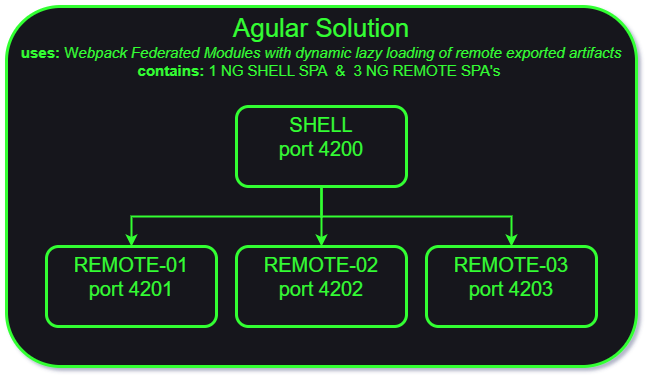
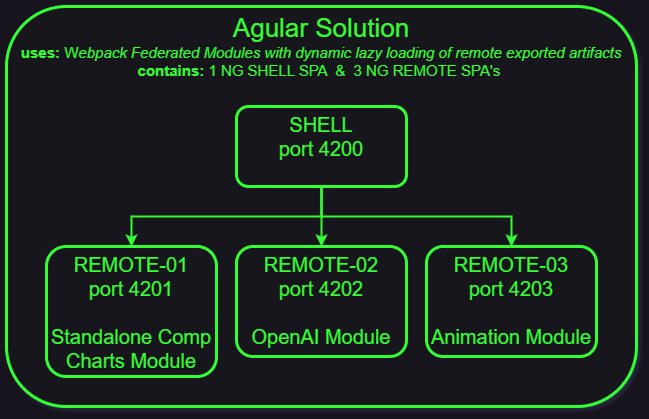
wip open AI Image is done

Changed region(s): [[0.0616, 0.2322, 0.9245, 0.8997], [0.0, 0.0, 1.0, 1.0]]

diff --git a/projects/remote-02/src/app/modules/open-ai/components/image-ai/image-ai.component.ts b/projects/remote-02/src/app/modules/open-ai/components/image-ai/image-ai.component.ts
@@ -1,7 +1,10 @@
-import { Component, OnInit } from '@angular/core';
+import { Component, OnInit, AfterViewInit } from '@angular/core';
 import { FormGroup, FormControl, Validators } from '@angular/forms';
 import { Observable, of } from 'rxjs';
 import { map, startWith } from 'rxjs/operators';
+import { OpenAiDataService } from '../../services/open-ai.service';
+import { MatSnackBar } from '@angular/material/snack-bar';
+
 
 @Component({
   selector: 'app-image-ai',
@@ -9,27 +12,69 @@ import { map, startWith } from 'rxjs/operators';
   styleUrls: ['./image-ai.component.scss']
 })
 export class ImageAiComponent {
-  myForm: FormGroup;
-  output$: Observable<string>; 
+  myForm!: FormGroup
+  output$!: Observable<string>
+  inProgress: boolean = false;
+  theImageResult: string = ''
+  defValue: string ="create an image that shows two angels flying over a planet with a purple sky and white clouds"
+  
+  constructor(private openAiDS: OpenAiDataService,
+              private snackBar: MatSnackBar) {
+    this.initFormGroup(); // Initialize the output observable
+  }
 
-  constructor() {
+  private initFormGroup() {
     this.myForm = new FormGroup({
-      inputField: new FormControl('', Validators.required) // Initialize form control
+      inputField: new FormControl('', Validators.required),
+      inputKey: new FormControl('', Validators.required) // Initialize form control
     });
-    this.output$ = of(''); // Initialize the output observable
+    this.output$ = of('');
   }
 
   ngOnInit(): void {
-    // Use the form control valueChanges observable to react to input changes
-    this.output$ = this.myForm.get('inputField')!.valueChanges.pipe(
-      startWith(''), // Start with an initial value
-      map(input => `You typed: ${input}`) // Transform the input to the desired output
+    this.output$ = this.myForm.controls['inputField'].valueChanges.pipe(
+      startWith(''),
+      map(input => {
+        return this.countWords(input);
+      })
     );
   }
+  ngAfterViewInit(){
+    setTimeout(() => {
+      this.myForm.controls['inputField'].setValue(this.defValue)
+      this.myForm.controls['inputField'].enable()
+    });
+  }
+  private countWords(input: any) {
+    const words = input.trim().split(/\s+/);
+    // Count the words, filtering out any empty strings that may result from multiple consecutive spaces.
+    const wordCount = words.filter((word: string | any[]) => word.length > 0).length;
+    return `${wordCount}`;
+  }
 
+  displayToast(message: string, action: string = 'Close', duration: number = 3000) {
+    this.snackBar.open(message, action, {
+      duration: duration,
+    });
+  }
   onSubmit(): void {
     if (this.myForm.valid) {
-      console.log(this.myForm.value); // Here you can handle the form submission
+      const apiKey = this.myForm.controls['inputKey'].value; // Ideally, fetch this securely from your environment or server
+      const description = this.myForm.controls['inputField'].value;
+      this.inProgress=true;
+      this.openAiDS.generateImage(description, apiKey).subscribe({
+        next: (response: any) => {
+          this.displayToast("Your Image Is Below :)",'Close',3000);
+          this.theImageResult = response.data[0].url
+          this.inProgress=false;
+        },
+        error: (error) => {
+          this.inProgress = false;
+          this.displayToast(error.message,'Close',5000);
+        }
+      });
+    } else {
+      this.displayToast('You need to enter some TEXT & a valid API Key','Close',5000);
     }
   }
 }

diff --git a/projects/remote-02/src/app/modules/open-ai/services/open-ai.service.ts b/projects/remote-02/src/app/modules/open-ai/services/open-ai.service.ts
@@ -1,28 +1,29 @@
-import { Injectable, OnInit } from '@angular/core';
-import { HttpClient, HttpHeaders } from '@angular/common/http';
+import { Injectable } from '@angular/core';
+import { HttpClient, HttpHeaders } from '@angular/common/http'
 import { Observable } from 'rxjs';
+import { environment } from '../../../../environments/environment'
+import {OpenAI } from 'openai'
 
 @Injectable({
   providedIn: 'root' // This makes the service available throughout the app
 })
-export class OpenAiDataService implements OnInit {
+export class OpenAiDataService  {
+ 
 
   constructor(private http: HttpClient) { }
-  ngOnInit() {
-    const httpOptions = {
-      headers: new HttpHeaders({
-        'Content-Type': 'application/json',
-        'Authorization': 'your-auth-token'
-      })
-    }
-  }
+  
+  generateImage(description: string, apiKey: string): Observable<any> {
+    const headers = new HttpHeaders({
+      'Content-Type': 'application/json',
+      'Authorization': `Bearer ${apiKey}` // Send API key securely
+    });
 
-  fetchData(): Observable<any> {
-    // Example URL - replace with your actual endpoint
-    const url = 'https://api.example.com/data';
-    return this.http.get(url);
-  }
-  postRequest(url: string, body: any, httpOptions?: { headers: HttpHeaders }): Observable<any> {
-    return this.http.post(url, body, httpOptions);
+    // The payload you'll send to your backend, which then forwards the request to OpenAI
+    const body = {
+      prompt: description,
+      n: 1,
+      size: "1024x1024"
+    };
+    return this.http.post<any>(`${environment.openAiUrl.ImageGeneration}`, body, { headers: headers });
   }
 }

diff --git a/projects/remote-02/src/app/modules/open-ai/components/image-ai/image-ai.component.html b/projects/remote-02/src/app/modules/open-ai/components/image-ai/image-ai.component.html
@@ -3,8 +3,35 @@
     let's see what Open AI returns</h3>
   <div class="input-form">
     <form [formGroup]="myForm" (ngSubmit)="onSubmit()">
-    <textarea class="textarea" formControlName="inputField" placeholder="Type something..."></textarea>
-      <p>Output: {{ output$ | async }}</p> <!-- Display the transformed input -->
+      <div class="input-field">
+        <div class="input-field-label">
+          <mat-label for="inputField">Enter your 'creative image' instruction</mat-label> 
+        </div>
+        <div class="input-field-text-area">
+          <textarea class="text-area" formControlName="inputField" placeholder="Type something kewl...">Groovy</textarea>
+          <div class="word-count">Word Count: {{ output$ | async }}</div>
+        </div>
+      </div>
+      <div class="input-key">
+        <div class="input-key-label">
+          <mat-label for="input-key">Open AI API-KEY</mat-label> 
+        </div> <div class="input-key-text">
+          <input class="api-key" formControlName="inputKey" type="password">  
+        </div>
+      </div>
+      <div class="submit">
+        <ng-container *ngIf="inProgress === false">
+          <button mat-raised-button="submit">Submit To Open AI</button>
+        </ng-container>
+        <ng-container *ngIf="inProgress === true">
+          <div class="standby">Standby, Your Image Is Being Created on OpenAI...</div>
+        </ng-container>
+      </div>
     </form>
   </div>  
+  <ng-container *ngIf="inProgress === false">
+    <div class="theImage">
+      <img [src] = "theImageResult" >
+    </div>
+  </ng-container>
 </div>

diff --git a/projects/remote-02/src/app/modules/open-ai/components/image-ai/image-ai.component.scss b/projects/remote-02/src/app/modules/open-ai/components/image-ai/image-ai.component.scss
@@ -3,9 +3,41 @@
         display: flex; // Use Flexbox
         justify-content: center; // Center children horizontally
         align-items: center; // Center children vertically
-        .textarea{
-            width: 500px;
-            height: 200px;
+        padding-top: 20px;
+        .input-field {
+            .input-field-label{
+            }
+            .input-field-text-area {
+                .text-area{
+                    width: 400px;
+                    height: 200px;
+                }
+                .word-count{
+                    font-size: smaller;
+                }
+            }
         }
+        .input-key {
+            padding-top: 20px;
+            .input-key-label{
+            }
+            .input-key-text {
+                .api-key{
+                    width: 400px;
+                }
+            }
+        }
+        .submit{
+            padding-top: 10px;
+        }
+        .standby{
+            color:greenyellow;
+        }
+    }
+    .theImage{
+        display: flex; // Use Flexbox
+        justify-content: center; // Center children horizontally
+        align-items: center; // Center children vertically
+        padding-top: 30px;
     }
 }

diff --git a/projects/remote-02/src/app/modules/open-ai/open-ai.module.ts b/projects/remote-02/src/app/modules/open-ai/open-ai.module.ts
@@ -1,5 +1,6 @@
 import { NgModule } from '@angular/core';
 import { CommonModule } from '@angular/common';
+import {provideHttpClient} from '@angular/common/http'
 import { RouterModule } from '@angular/router';
 import { REMOTE_ROUTES } from './open-ai.routes';
 import { OpenAIHomeComponent } from './components/home/home.component';
@@ -16,6 +17,7 @@ import { MatMenuModule } from '@angular/material/menu'
 import { MatInputModule } from '@angular/material/input';
 import { MatFormFieldModule } from '@angular/material/form-field';
 import { MatDividerModule } from '@angular/material/divider';
+import { MatSnackBarModule } from '@angular/material/snack-bar';
 
 @NgModule({
   declarations: [
@@ -35,8 +37,9 @@ import { MatDividerModule } from '@angular/material/divider';
     MatMenuModule,
     MatInputModule,
     MatFormFieldModule,
-    MatDividerModule
+    MatDividerModule,
+    MatSnackBarModule
   ],
-  providers: [OpenAiDataService],
+  providers: [OpenAiDataService, provideHttpClient()],
 })
 export class OpenAIModule { }

diff --git a/projects/remote-02/src/app/app.module.ts b/projects/remote-02/src/app/app.module.ts
@@ -5,7 +5,7 @@ import { AppComponent } from './app.component';
 import { OpenAIModule } from './modules/open-ai/open-ai.module';
 import { HomeComponent } from './components/home/home.component';
 import { REMOTE_ROUTES } from './routes';
-
+import { provideHttpClient } from '@angular/common/http';
 //Material Imports
 import { MatIconModule } from '@angular/material/icon'
 import { MatButtonModule } from '@angular/material/button'
@@ -33,7 +33,7 @@ import { MatDividerModule } from '@angular/material/divider';
     MatDividerModule
 
   ],
-  providers: [],
+  providers: [provideHttpClient()],
   bootstrap: [AppComponent]
 })
 export class AppModule { 

diff --git a/projects/remote-02/src/app/modules/open-ai/services/open-ai.service.spec.ts b/projects/remote-02/src/app/modules/open-ai/services/open-ai.service.spec.ts
@@ -1,13 +1,13 @@
 import { TestBed } from '@angular/core/testing';
 
-import { OpenAiService } from './open-ai.service';
+import { OpenAiDataService } from './open-ai.service';
 
 describe('OpenAiService', () => {
-  let service: OpenAiService;
+  let service: OpenAiDataService;
 
   beforeEach(() => {
     TestBed.configureTestingModule({});
-    service = TestBed.inject(OpenAiService);
+    service = TestBed.inject(OpenAiDataService);
   });
 
   it('should be created', () => {

diff --git a/theme.scss b/theme.scss
@@ -36,6 +36,11 @@ $theme: mat.define-light-theme((
 @mixin text-shadow($x-offset: 2px, $y-offset: 2px, $blur: 4px, $color: rgba(0, 0, 0, 0.5)) {
   text-shadow: $x-offset $y-offset $blur $color;
 }
+@mixin red-border{
+    border-color: red;
+    border-width: 2px;
+    border-style: solid;
+}
 
 .mat-toolbar.mat-primary {
   background: #df9d5f;

diff --git a/projects/remote-02/src/environments/environment.development.ts b/projects/remote-02/src/environments/environment.development.ts
@@ -1,5 +1,9 @@
 export const environment = {
     runtimeMode: "Dev",
     projectName: "REMOTE-02",
-};
+    openAiUrl:{
+        ImageGeneration: 'https://api.openai.com/v1/images/generations'
+    }
+ 
+}           
 

diff --git a/projects/remote-02/src/environments/environment.ts b/projects/remote-02/src/environments/environment.ts
@@ -1,5 +1,8 @@
 export const environment = {
     runtimeMode: "",
     projectName: "REMOTE-02",
+    openAiUrl:{
+        ImageGeneration: ''
+    }
 };
 
